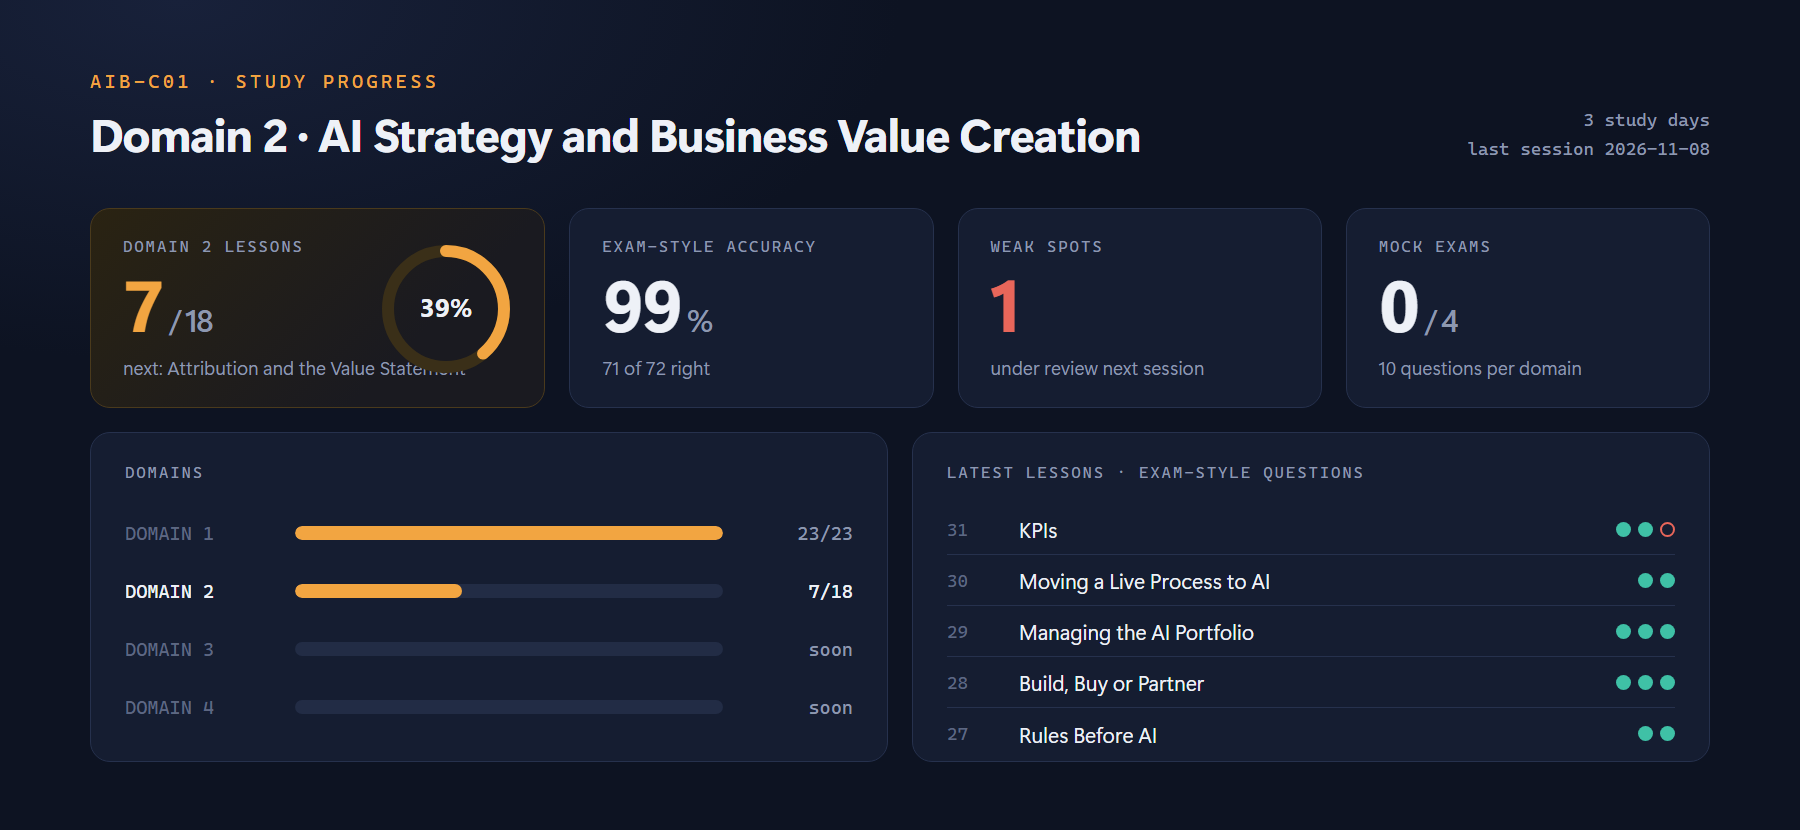
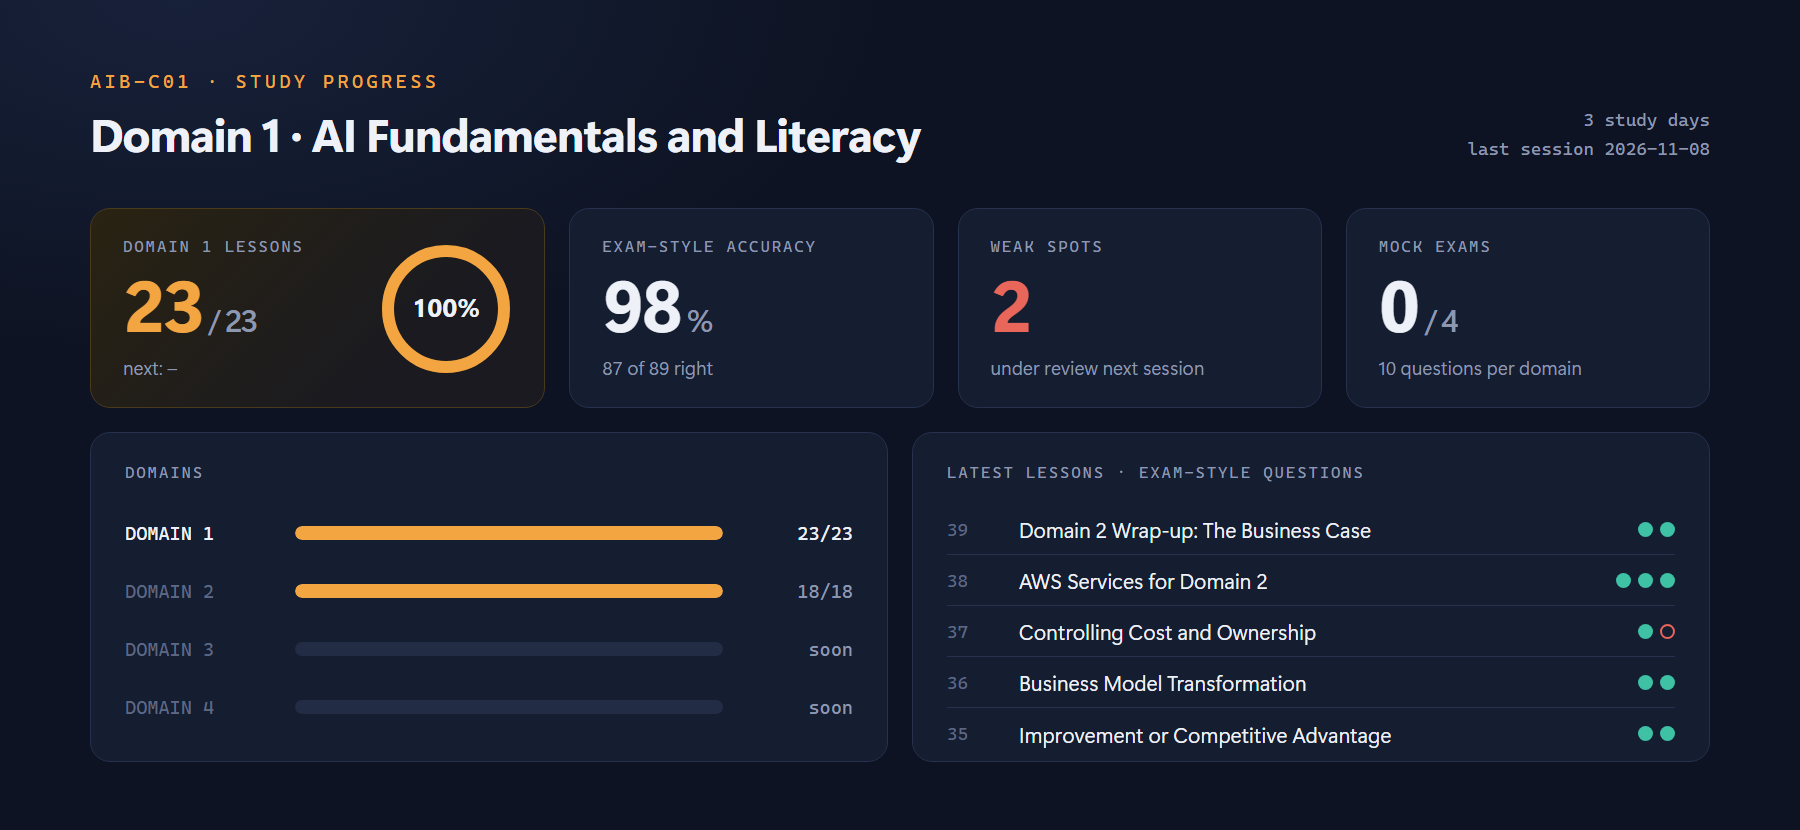
docs(progress): lessons 32 to 39 and close domain 2

diff --git a/design/readme/data.js b/design/readme/data.js
@@ -3,11 +3,11 @@ window.DATA = {
   "updated": "2026-11-08",
   "started": "2026-11-06",
   "days": 3,
-  "lessonsDone": 28,
+  "lessonsDone": 36,
   "skipped": 2,
-  "right": 71,
-  "asked": 72,
-  "accuracy": 99,
+  "right": 87,
+  "asked": 89,
+  "accuracy": 98,
   "domains": [
     {
       "number": 1,
@@ -20,10 +20,10 @@ window.DATA = {
     {
       "number": 2,
       "title": "AI Strategy and Business Value Creation",
-      "done": 7,
+      "done": 18,
       "total": 18,
-      "right": 17,
-      "asked": 18
+      "right": 33,
+      "asked": 35
     },
     {
       "number": 3,
@@ -42,47 +42,48 @@ window.DATA = {
       "asked": 0
     }
   ],
-  "current": 2,
-  "next": "32. Attribution and the Value Statement",
+  "current": 1,
+  "next": null,
   "recent": [
     {
-      "number": 31,
-      "title": "KPIs",
-      "state": "done",
-      "right": 2,
-      "asked": 3
-    },
-    {
-      "number": 30,
-      "title": "Moving a Live Process to AI",
+      "number": 39,
+      "title": "Domain 2 Wrap-up: The Business Case",
       "state": "done",
       "right": 2,
       "asked": 2
     },
     {
-      "number": 29,
-      "title": "Managing the AI Portfolio",
+      "number": 38,
+      "title": "AWS Services for Domain 2",
       "state": "done",
       "right": 3,
       "asked": 3
     },
     {
-      "number": 28,
-      "title": "Build, Buy or Partner",
+      "number": 37,
+      "title": "Controlling Cost and Ownership",
       "state": "done",
-      "right": 3,
-      "asked": 3
+      "right": 1,
+      "asked": 2
     },
     {
-      "number": 27,
-      "title": "Rules Before AI",
+      "number": 36,
+      "title": "Business Model Transformation",
+      "state": "done",
+      "right": 2,
+      "asked": 2
+    },
+    {
+      "number": 35,
+      "title": "Improvement or Competitive Advantage",
       "state": "done",
       "right": 2,
       "asked": 2
     }
   ],
   "weak": [
-    "Baseline creíble: confundió \"mismo método\" con \"mismos datos\" y no detectó períodos no comparables (enero vs Black Friday) como lo que debilita un antes/después. Repasar los 3 chequeos (registrado antes, misma medición, período comparable)."
+    "Baseline creíble: confundió \"mismo método\" con \"mismos datos\" y no detectó períodos no comparables (enero vs Black Friday) como lo que debilita un antes/después. Repasar los 3 chequeos (registrado antes, misma medición, período comparable).",
+    "Cost ownership: con iniciativas ya probadas y costo sin dueño, eligió agrandar el pozo central y confundió la opción \"proven → equipo que se beneficia\" con \"cobrar desde el día uno\". Repasar: experiments → central AI budget, proven → cost center del equipo, por uso."
   ],
   "mocks": []
 };

diff --git a/progress.md b/progress.md
@@ -2,7 +2,7 @@
 
 ## Dónde estoy
 
-Próxima lección: 32. Attribution and the Value Statement
+Próximo: sección 5, Domain 3: AI Governance and Responsible AI (primera lección a confirmar)
 
 ## Temario
 
@@ -47,25 +47,26 @@ Próxima lección: 32. Attribution and the Value Statement
 - [x] 29. Managing the AI Portfolio (3/3, 2/3 al primer intento)
 - [x] 30. Moving a Live Process to AI (2/2)
 - [x] 31. KPIs (2/3)
-- [ ] 32. Attribution and the Value Statement
-- [ ] 33. ROI
-- [ ] 34. Leading Indicators
-- [ ] 35. Improvement or Competitive Advantage
-- [ ] 36. Business Model Transformation
-- [ ] 37. Controlling Cost and Ownership
-- [ ] 38. AWS Services for Domain 2
-- [ ] 39. Domain 2 Wrap-up: The Business Case
-- Cuestionario 3: AWS Services Quiz: Domain 2
-- Cuestionario 4: AI Strategy and Business Value Creation Quiz
-- Role play 2: The Ticket Routing Business Case (título a confirmar)
+- [x] 32. Attribution and the Value Statement (2/2)
+- [x] 33. ROI (2/2)
+- [x] 34. Leading Indicators (2/2, 1/2 al primer intento)
+- [x] 35. Improvement or Competitive Advantage (2/2)
+- [x] 36. Business Model Transformation (2/2)
+- [x] 37. Controlling Cost and Ownership (1/2)
+- [x] 38. AWS Services for Domain 2 (3/3)
+- [x] 39. Domain 2 Wrap-up: The Business Case (2/2)
+- Cuestionario 3: AWS Services Quiz: Domain 2 (hecho en Udemy)
+- Cuestionario 4: AI Strategy and Business Value Creation Quiz (hecho en Udemy)
+- Role play 2: The Ticket Routing Business Case (hecho en Udemy)
 
 ## Puntos flojos
 
 - Baseline creíble: confundió "mismo método" con "mismos datos" y no detectó períodos no comparables (enero vs Black Friday) como lo que debilita un antes/después. Repasar los 3 chequeos (registrado antes, misma medición, período comparable).
+- Cost ownership: con iniciativas ya probadas y costo sin dueño, eligió agrandar el pozo central y confundió la opción "proven → equipo que se beneficia" con "cobrar desde el día uno". Repasar: experiments → central AI budget, proven → cost center del equipo, por uso.
 
 ## Simulacros
 
-Ninguno todavía. Pendiente: el del dominio 1 (se pasó directo al dominio 2).
+Ninguno todavía. Pendientes: el del dominio 1 (se pasó directo al dominio 2) y el del dominio 2 (se pasó directo al dominio 3).
 
 ## Registro
 
@@ -99,3 +100,12 @@ Ninguno todavía. Pendiente: el del dominio 1 (se pasó directo al dominio 2).
 - 2026-11-08: repaso 2/2 (sunk cost → terminate; bias drift con total estable y un grupo peor), ambos resueltos.
 - 2026-11-08: lección 30, 2/2 (4 chequeos antes del switch: business continuity, cost one-time + mensual, data readiness, performance parity en pilot; cambiar de plataforma solo si el problema es la plataforma, por los costos ocultos).
 - 2026-11-08: lección 31, 2/3 (KPI tangible vs intangible; no sirven inputs, infra ni resultados de toda la empresa; falló "which most undermines": períodos no comparables, con pista; la opción B estaba mal redactada; baseline sin registro = claim, not evidence).
+- 2026-11-08: lección 32, 2/2 (attribution: misma tendencia antes y después = not attributable, aceleración al lanzar = attributable; value statement en 3 partes: change vs baseline, mechanism, what else moved it y por qué no lo explica).
+- 2026-11-08: lección 33, 2/2 (ROI = (benefits − costs) / costs; costs undercounted si falta el run; benefits = cambio total − lo no atribuible + intangibles valuados; payback hereda los errores de los inputs).
+- 2026-11-08: lección 34, 1/2 al primer intento (leading = adoption, quality trend, milestones en meses 1-3; lagging = ROI al mes 9; activity, gasto en budget y adivinar el número final no sirven; falló con pista: eligió "esperar al ROI" en vez de leer la baja adoption como riesgo).
+- 2026-11-08: lección 35, 2/2 (operational improvement = copiable pero vale tenerla; competitive advantage = proprietary data + data flywheel + depth of integration; ser primero, gastar más y build vs buy no la hacen durable; buy to learn, own to stand apart).
+- 2026-11-08: lección 36, 2/2 (seguí adónde viaja el valor: adentro = improvement, afuera = transformation; 4 tipos: scaling, optimization, process improvement, transformation; pidió separar optimization de process improvement: ¿cambia cómo se hace el trabajo o solo se decide mejor dentro de lo mismo?).
+- 2026-11-08: lección 37, 1/2 (el gasto correcto lo justifican los KPIs: ni starve ni unchecked; experiments del central AI budget, proven al equipo que se beneficia, por uso; falló la 1 aun con pista: confundió proven con day one; acertó que cobrar experimentos mata la experimentación).
+- 2026-11-08: lección 38, 3/3 (Bedrock = buy, rápido pero copiable; SageMaker = build/own, ventaja durable; Marketplace = buy y partner; Quick lee KPIs, no la factura; Pricing Calculator estima antes, Cost Explorer gasto real por tag, Savings Plans con uso estable a 1 o 3 años).
+- 2026-11-08: lección 39, 2/2 (business case en una página, 8 piezas: outcome sin tecnología, path, cuándo no es IA, KPIs con baseline, costo con run, attribution, leading indicator, improvement o advantage). Fin de las lecciones del dominio 2.
+- 2026-11-08: cuestionarios 3 y 4 y role play 2 hechos en Udemy (sin puntaje anotado). Dominio 2 cerrado; simulacro pendiente. Arranca el dominio 3.

diff --git a/README.md b/README.md
@@ -44,15 +44,16 @@ The course transcripts and slides stay on my machine: they belong to the course 
 | | Domain | Lessons | Exam-style | |
 |---|---|---|---|---|
 | 1 | AI Fundamentals and Literacy | 23/23 | 54/54 | ![done](assets/readme/badges/status-domain-1.svg) |
-| 2 | AI Strategy and Business Value Creation | 7/18 | 17/18 | ![in progress](assets/readme/badges/status-domain-2.svg) |
+| 2 | AI Strategy and Business Value Creation | 18/18 | 33/35 | ![done](assets/readme/badges/status-domain-2.svg) |
 | 3 | _not reached yet_ | – | – | ![not started](assets/readme/badges/status-domain-3.svg) |
 | 4 | _not reached yet_ | – | – | ![not started](assets/readme/badges/status-domain-4.svg) |
 
-**Next up:** 32. Attribution and the Value Statement
+
 
 **Weak spots under review** (logged in Spanish, as studied):
 
 - Baseline creíble: confundió "mismo método" con "mismos datos" y no detectó períodos no comparables (enero vs Black Friday) como lo que debilita un antes/después. Repasar los 3 chequeos (registrado antes, misma medición, período comparable).
+- Cost ownership: con iniciativas ya probadas y costo sin dueño, eligió agrandar el pozo central y confundió la opción "proven → equipo que se beneficia" con "cobrar desde el día uno". Repasar: experiments → central AI budget, proven → cost center del equipo, por uso.
 
 <sub>Generated from [progress.md](progress.md) by `node design/readme/build.mjs`. Last session: 2026-11-08.</sub>
 <!-- progress:end -->
